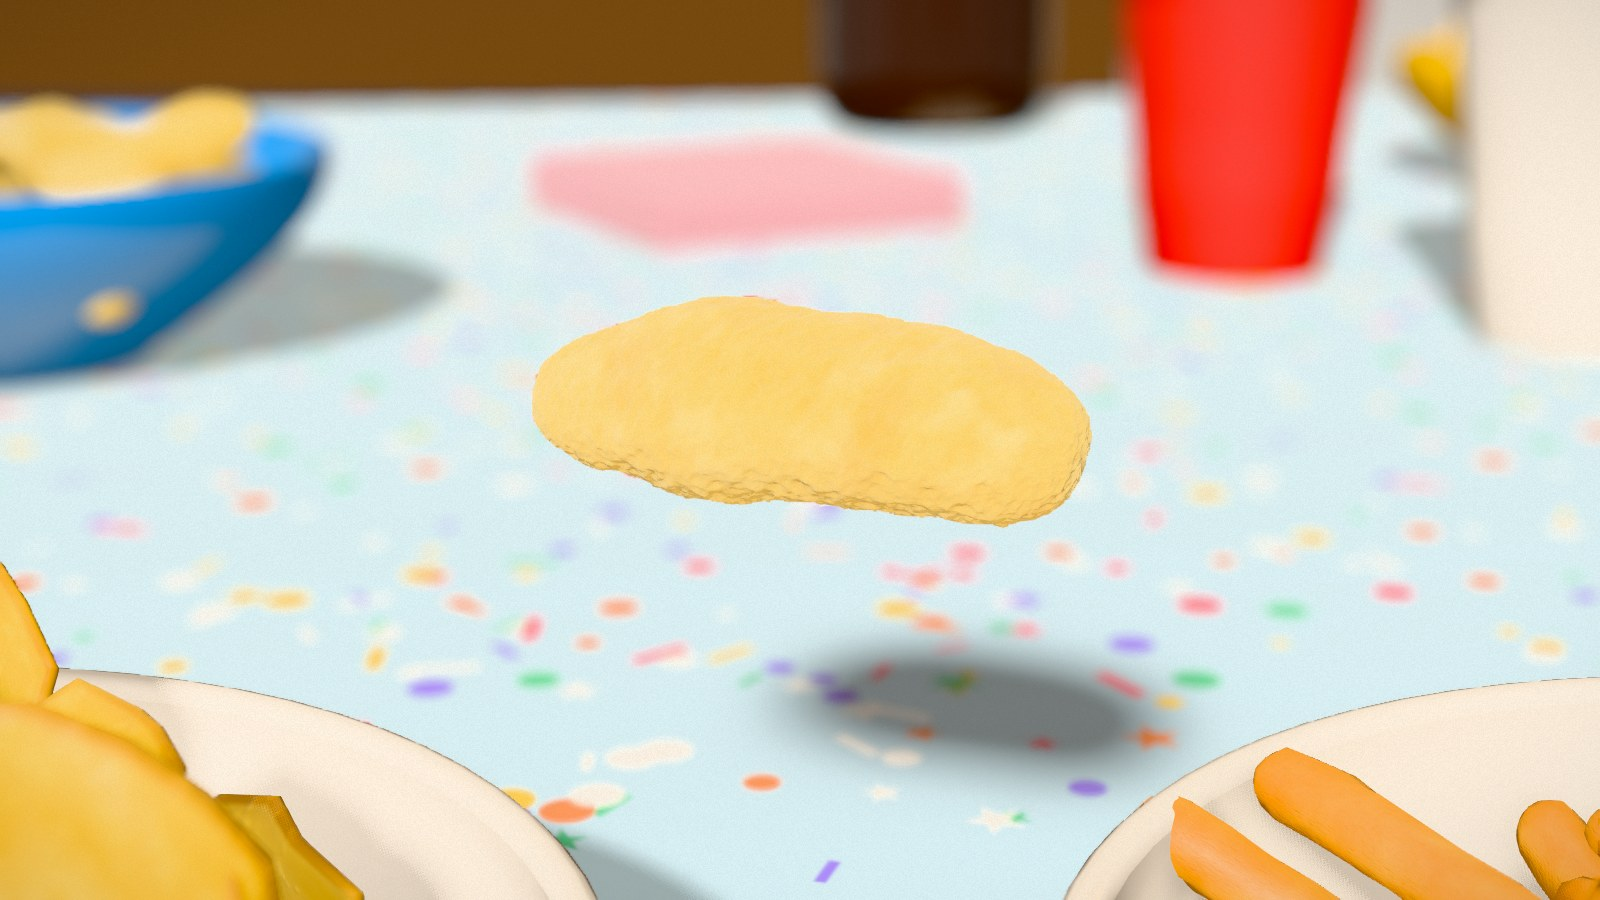
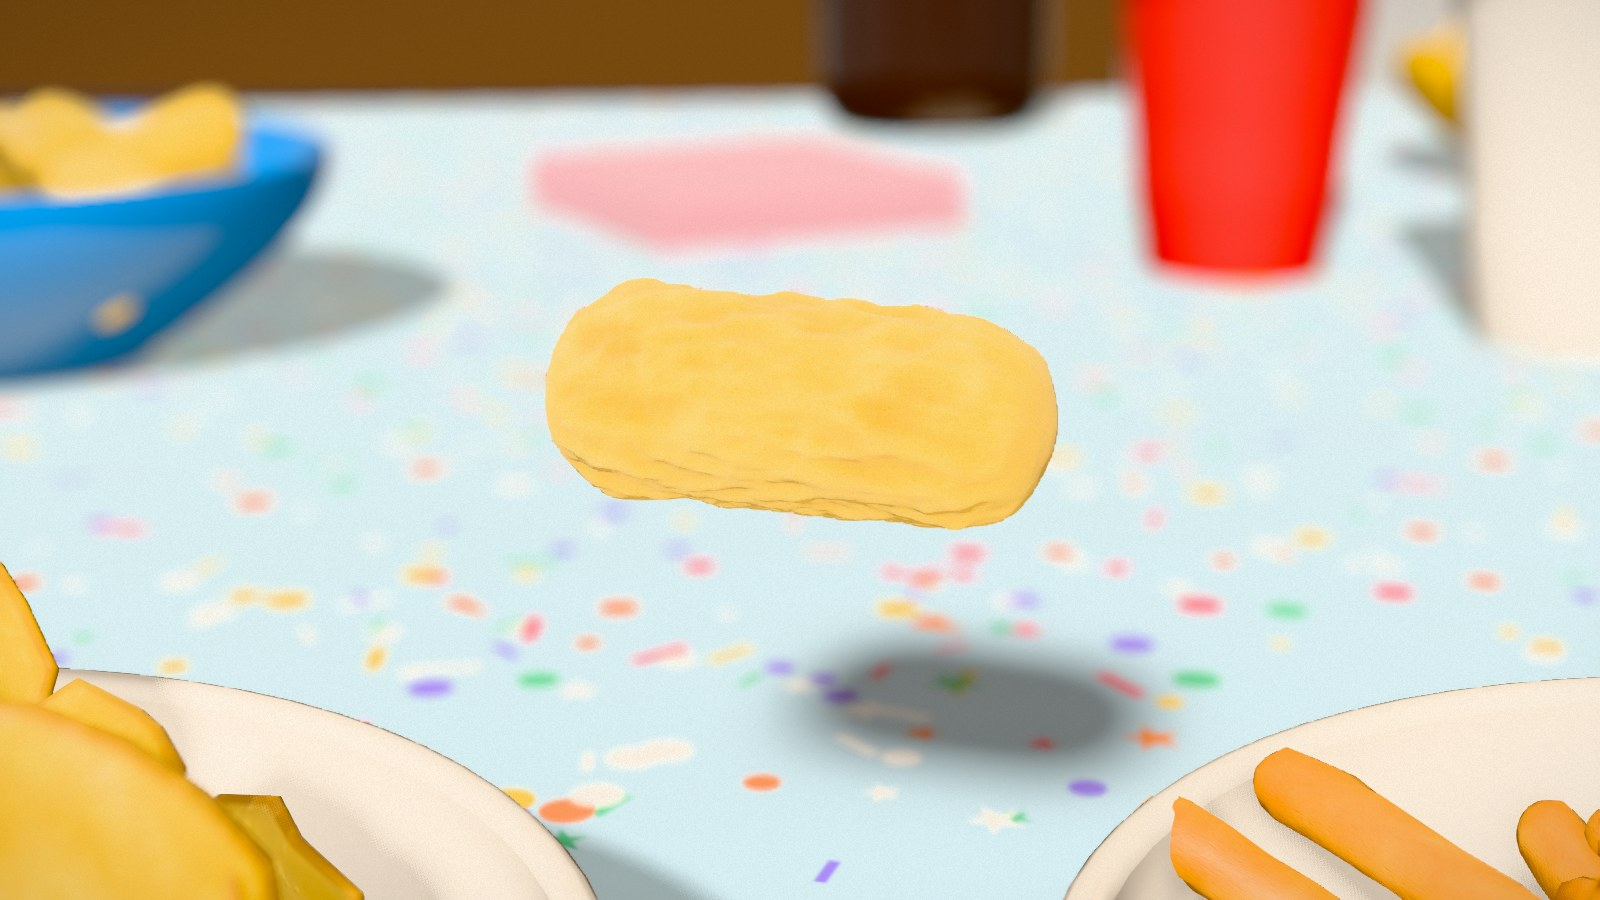
Chizito tipo cápsula según el modelo 3D de referencia
- Casi recto, sección redonda, largo/grosor ~2,2, puntas semiesféricas con el
  'ombligo' del corte, arrugas longitudinales suaves; amarillo.
- Arrugas y normal map se desvanecen en los polos (evita la 'estrella').

Claude-Session: https://claude.ai/code/session_013sTMCsEZoGqt3qcvXveZud

Changed region(s): [[0.3125, 0.3111, 0.6875, 0.5911], [0.0, 0.0933, 0.1875, 0.2178], [0.0312, 0.3111, 0.0938, 0.3733]]

diff --git a/src/assets/procedural/chizito.ts b/src/assets/procedural/chizito.ts
@@ -47,7 +47,7 @@ function chizitoMaps() {
   const blur = boxBlur(hf, 9);
   for (let i = 0; i < cavity.length; i++) cavity[i] = hf.data[i] - blur[i];
 
-  const normal = hf.toNormalMap(10);
+  const normal = hf.toNormalMap(7);
   const rough = hf.toGrayTexture((h, x, y) => {
     const cv = cavity[y * size + x];
     return 0.84 - cv * 0.9 - (h - 0.5) * 0.08;
@@ -110,6 +110,17 @@ export function chizitoMaterial(): THREE.MeshPhysicalMaterial {
     specularIntensity: 0.5,
     envMapIntensity: 1,
   });
+  sharedMaterial.onBeforeCompile = (shader) => {
+    shader.vertexShader = shader.vertexShader
+      .replace('#include <common>', '#include <common>\nattribute float nmFade;\nvarying float vNmFade;')
+      .replace('#include <begin_vertex>', '#include <begin_vertex>\nvNmFade = nmFade;');
+    shader.fragmentShader = shader.fragmentShader
+      .replace('#include <common>', '#include <common>\nvarying float vNmFade;')
+      .replace(
+        '#include <normal_fragment_maps>',
+        THREE.ShaderChunk.normal_fragment_maps.replace('mapN.xy *= normalScale;', 'mapN.xy *= normalScale * vNmFade;'),
+      );
+  };
   return sharedMaterial;
 }
 
@@ -121,19 +132,18 @@ export interface ChizitoShape {
 export function buildChizitoGeometry(seed: number, detail: Detail = 'hero'): { geometry: THREE.BufferGeometry; shape: ChizitoShape } {
   const rnd = mulberry32(seed * 7919 + 13);
   const noise = new Simplex3(seed + 101);
-  // Chizito inflado tipo "maní": gordito, puntas redondas y romas, apenas curvado (ver referencia).
-  const L = 0.046 + rnd() * 0.01; // 4,6 a 5,6 cm
-  const D = 0.0185 + rnd() * 0.0035; // 1,85 a 2,2 cm de grosor
-  const flat = 0.88 + rnd() * 0.1; // casi redondo
-  const bend = (0.04 + rnd() * 0.08) * L;
-  const sWiggle = (rnd() - 0.5) * 0.18 * L;
-  const twist = (rnd() - 0.5) * 0.6;
-  const endA = 0.26 + rnd() * 0.1; // puntas romas
-  const endB = 0.26 + rnd() * 0.1;
+  // Chizito tipo cápsula (según el modelo 3D de referencia): casi recto, sección redonda, puntas
+  // semiesféricas, arrugas suaves a lo largo de la extrusión y el "ombligo" del corte en una punta.
+  const L = 0.044 + rnd() * 0.008; // 4,4 a 5,2 cm
+  const D = 0.019 + rnd() * 0.003; // 1,9 a 2,2 cm de grosor (largo/grosor ≈ 2,2)
+  const flat = 0.9 + rnd() * 0.08; // apenas ovalado
+  const bend = (0.01 + rnd() * 0.04) * L;
+  const sWiggle = (rnd() - 0.5) * 0.08 * L;
+  const capA = 0.92 + rnd() * 0.12; // radio de cada casquete relativo al radio del cuerpo
+  const capB = 0.92 + rnd() * 0.12;
   const thickPhase = rnd() * 10;
-  const waist = 0.04 + rnd() * 0.08; // cinturita de maní
-  const waistAt = 0.42 + rnd() * 0.16;
-  const bulb = (rnd() - 0.5) * 0.16; // una punta un poco más gorda que la otra
+  const bulb = (rnd() - 0.5) * 0.08; // una punta apenas más gorda que la otra
+  const navelEnd = rnd() < 0.5 ? 0 : 1;
 
   const center = (u: number, out: THREE.Vector3) => {
     const x = (u - 0.5) * L;
@@ -143,41 +153,52 @@ export function buildChizitoGeometry(seed: number, detail: Detail = 'hero'): { g
   };
 
   const radius = (u: number, th: number): [number, number] => {
-    const e = u < 0.5 ? endA : endB;
-    const prof = Math.pow(Math.max(0, Math.sin(Math.PI * u)), e);
-    const along =
-      1 +
-      0.07 * noise.noise(u * 3.2 + thickPhase, 0.3, 0) +
-      bulb * (u - 0.5) -
-      waist * Math.exp(-Math.pow((u - waistAt) / 0.14, 2));
-    const R = (D / 2) * prof * along;
-    const tw = th + twist * (u - 0.5);
-    const ell = 1 + 0.04 * Math.cos(2 * tw);
+    const R0 = D / 2;
+    const sv = u * L;
+    const fromEnd = Math.min(sv, L - sv);
+    const cap = R0 * (u < 0.5 ? capA : capB);
+    const t = Math.min(1, fromEnd / cap);
+    const prof = Math.sqrt(Math.max(0, 1 - (1 - t) * (1 - t)));
+    const along = 1 + 0.04 * noise.noise(u * 2.6 + thickPhase, 0.3, 0) + bulb * (u - 0.5);
+    const R = R0 * prof * along;
+    const ell = 1 + 0.03 * Math.cos(2 * th + u * 1.5);
     return [R * flat * ell, R / ell];
   };
 
-  // Superficie inflada: ondulación grande + grumos redondos ("burbujas" de la masa) + rugosidad fina.
-  const displace = (p: THREE.Vector3, _n: THREE.Vector3, u: number) => {
-    const fade = Math.min(1, Math.sin(Math.PI * u) * 3);
-    const big = noise.fbm(p.x * 42, p.y * 42, p.z * 42, 2) * 0.0006;
-    const lumps = (noise.billow(p.x * 170 + 7, p.y * 170, p.z * 170, 3) - 0.62) * 0.00075;
-    const fine = (noise.billow(p.x * 420 + 3, p.y * 420, p.z * 420, 2) - 0.6) * 0.0004;
-    return (big + lumps) * fade + fine;
+  const displace = (p: THREE.Vector3, _n: THREE.Vector3, u: number, th: number) => {
+    const sv = u * L;
+    const fromEnd = Math.min(sv, L - sv);
+    // Arrugas longitudinales: varían rápido alrededor y lento a lo largo (pliegues de la extrusión).
+    const ca = Math.cos(th) * 1.6;
+    const sa = Math.sin(th) * 1.6;
+    const fold = 1 - Math.abs(noise.noise(p.x * 55 + 11, ca, sa));
+    const fold2 = 1 - Math.abs(noise.noise(p.x * 110 + 3, ca * 2.2, sa * 2.2));
+    const wrinkles = (fold - 0.6) * 0.001 + (fold2 - 0.6) * 0.00045;
+    // Bultitos suaves y ondulación general.
+    const lumps = (noise.billow(p.x * 130 + 7, p.y * 130, p.z * 130, 2) - 0.6) * 0.00045;
+    const big = noise.fbm(p.x * 35, p.y * 35, p.z * 35, 2) * 0.00045;
+    // "Ombligo" del corte de la extrusión en las puntas (más marcado en una).
+    const navelAt = (e: number, k: number) =>
+      k * (-0.0009 * Math.exp(-Math.pow(e / 0.0022, 2)) + 0.00025 * Math.exp(-Math.pow((e - 0.0035) / 0.0015, 2)));
+    const navel = navelAt(sv, navelEnd === 0 ? 1 : 0.6) + navelAt(L - sv, navelEnd === 1 ? 1 : 0.6);
+    // Las arrugas siguen el ángulo alrededor del eje: en el polo convergerían en una "estrella".
+    const capFade = THREE.MathUtils.smoothstep(fromEnd, 0.0015, 0.0075);
+    return wrinkles * capFade + lumps * (0.4 + 0.6 * capFade) + big + navel;
   };
 
   const tone = new Simplex3(seed + 555);
   const base = new THREE.Color();
-  const deep = new THREE.Color('#e3ac3e');
-  const butter = new THREE.Color('#f2cf68');
-  const cream = new THREE.Color('#fbe7a2');
+  const deep = new THREE.Color('#e8ad2c');
+  const yellow = new THREE.Color('#f6cb43');
+  const light = new THREE.Color('#fbe189');
   const color = (p: THREE.Vector3, _n: THREE.Vector3, _u: number, _th: number, d: number, out: THREE.Color) => {
-    const t = tone.fbm(p.x * 120, p.y * 120, p.z * 120, 3) * 0.5 + 0.5;
-    base.copy(butter).lerp(cream, THREE.MathUtils.smoothstep(t, 0.45, 0.95) * 0.55);
-    const toast = THREE.MathUtils.smoothstep(tone.noise(p.x * 60 + 9, p.y * 60, p.z * 60), 0.5, 0.95);
-    base.lerp(deep, toast * 0.35);
-    // Grumos con polvo más claro; huecos un poco más dorados.
-    const k = THREE.MathUtils.clamp(d / 0.0009, -1, 1);
-    if (k > 0) base.lerp(cream, k * 0.3);
+    const t = tone.fbm(p.x * 110, p.y * 110, p.z * 110, 3) * 0.5 + 0.5;
+    base.copy(yellow).lerp(light, THREE.MathUtils.smoothstep(t, 0.5, 0.95) * 0.45);
+    const toast = THREE.MathUtils.smoothstep(tone.noise(p.x * 55 + 9, p.y * 55, p.z * 55), 0.5, 0.95);
+    base.lerp(deep, toast * 0.3);
+    // Crestas de las arrugas más claras; pliegues un poco más dorados.
+    const k = THREE.MathUtils.clamp(d / 0.0005, -1, 1);
+    if (k > 0) base.lerp(light, k * 0.3);
     else base.lerp(deep, -k * 0.35);
     out.copy(base);
   };
@@ -202,6 +223,15 @@ export function buildChizitoGeometry(seed: number, detail: Detail = 'hero'): { g
   geometry.translate(-c.x, -c.y, -c.z);
   geometry.computeBoundingBox();
   geometry.computeBoundingSphere();
+  // En los polos las UV convergen y el normal map dibuja una "estrella": se desvanece cerca de las puntas.
+  const pos = geometry.getAttribute('position');
+  const bb = geometry.boundingBox!;
+  const fade = new Float32Array(pos.count);
+  for (let i = 0; i < pos.count; i++) {
+    const x = pos.getX(i);
+    fade[i] = THREE.MathUtils.smoothstep(Math.min(x - bb.min.x, bb.max.x - x), 0.0012, 0.0055);
+  }
+  geometry.setAttribute('nmFade', new THREE.BufferAttribute(fade, 1));
   return { geometry, shape: { length: L, thickness: D } };
 }
 

diff --git a/src/pieces/definitions.ts b/src/pieces/definitions.ts
@@ -6,7 +6,7 @@ import type { PieceDefinition } from './PieceDefinition';
 export const CHIZITO: PieceDefinition = {
   type: 'chizito',
   displayName: 'Chizito',
-  dimensions: { length: 0.051, thickness: 0.02 },
+  dimensions: { length: 0.048, thickness: 0.0205 },
   frame: 'centered',
   procedural: (seed, detail) => createChizito(seed, detail),
   canPierce: false,

diff --git a/CLAUDE.md b/CLAUDE.md
@@ -16,7 +16,10 @@ rarezas, puntuación ni desafíos (ni UI preparada para eso).
 ## Dirección visual (actualizada con referencias del usuario)
 - Prioridad: que se vea DIVERTIDO y apetitoso, no hiperrealismo a toda costa. Look de foto de producto alegre:
   luz blanca y suave, colores vivos pero fieles, mantel celeste con confeti (el amarillo y el naranja resaltan).
-- Chizito: inflado tipo "maní", amarillo pálido manteca (#f2cf68), gordito, puntas romas, grumos suaves y poros.
+- Chizito: CÁPSULA según el modelo 3D de referencia del usuario: casi recto, sección redonda, largo/grosor ≈ 2,2,
+  puntas semiesféricas con el "ombligo" del corte, arrugas suaves longitudinales. Amarillo (#f6cb43).
+  Las arrugas dependen del ángulo alrededor del eje: se desvanecen en los polos (si no, forman una "estrella"), y el
+  normal map también (atributo `nmFade`).
 - Palito: palito de queso NARANJA (#f2a240), grueso e irregular, grosor despareño, puntas redondeadas, leve curva.
 - Tone mapping Neutral (Khronos PBR Neutral) por defecto + `LookEffect` (saturación/brillo/contraste acotados).
   `?tm=aces` / `?tm=agx` para comparar. No usar HueSaturationEffect de postprocessing: genera negativos → negros.
@@ -24,7 +27,7 @@ rarezas, puntuación ni desafíos (ni UI preparada para eso).
   dos veces y todo salía rojizo y saturado).
 
 ## Escala (1 unidad = 1 metro)
-- Chizito: 4,6–5,6 cm de largo, 1,85–2,2 cm de grosor, apenas curvado, con "cintura" de maní.
+- Chizito: 4,4–5,2 cm de largo, 1,9–2,2 cm de grosor, casi recto.
 - Palito: ~8,5 cm, Ø ~6 mm (más grueso que el original de 3 mm, según la referencia). Papita: Ø ~5 cm, 1,5 mm.
 - Mesa en y = 0. Chizito flotando con centro en y = 7,2 cm (`CONFIG.chizitoCenter`).
 - Cámara fija en (0, 12,2 cm, 20 cm) mirando al chizito con leve inclinación; 50 mm sobre film de 36 mm.
